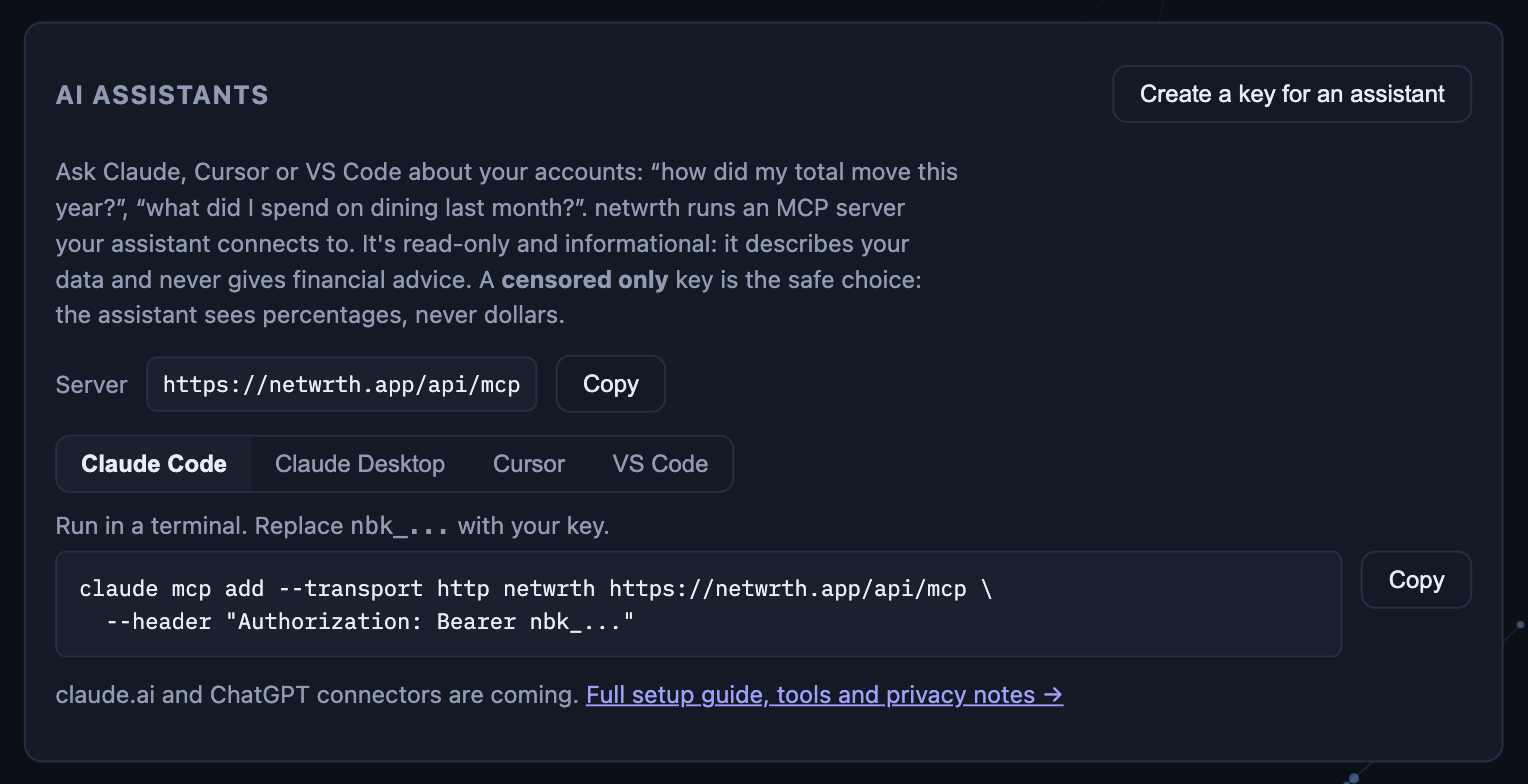
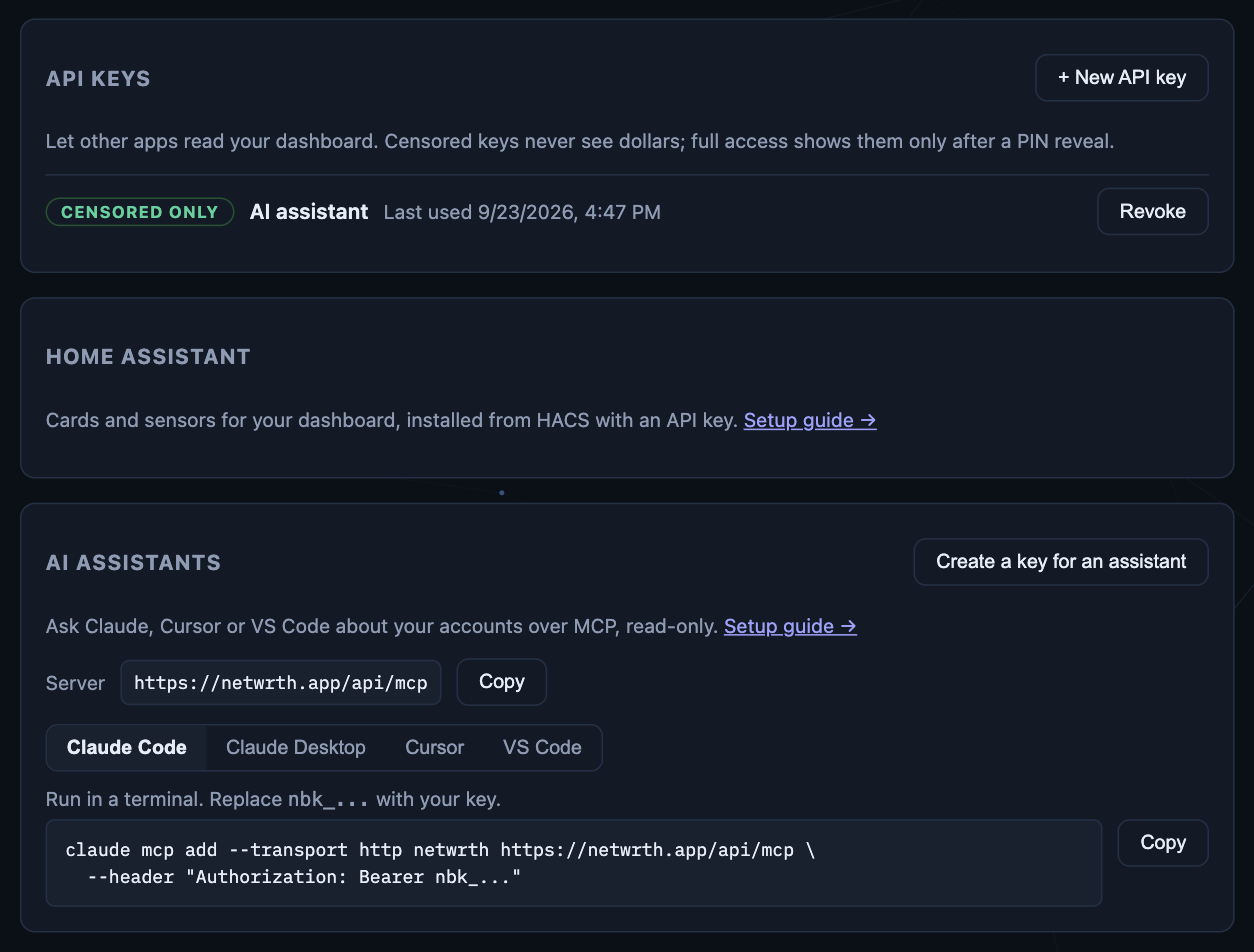
README: showcase the reworked Integrations page

diff --git a/README.md b/README.md
@@ -10,8 +10,8 @@
   a read-only MCP server, censored by default, that describes your money and never gives advice.
 </p>
 
-<p align="center"><img src="docs/img/settings.png" alt="The AI assistants section in netwrth Settings → Integrations" width="760"></p>
-<p align="center"><sub>Settings → Integrations → AI assistants: create a key and copy the setup for your client, with the key already filled in.</sub></p>
+<p align="center"><img src="docs/img/settings.png" alt="netwrth Settings → Integrations: API keys, Home Assistant and AI assistants" width="640"></p>
+<p align="center"><sub>Settings → Integrations. <b>Create a key for an assistant</b> fills the new key into the setup for your client.</sub></p>
 
 ## What you can ask
 
